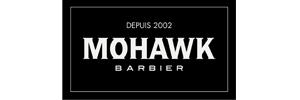
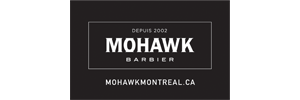
adds mohawk sponsor to footer

diff --git a/footer.php b/footer.php
@@ -73,6 +73,9 @@
 				<div class="col-xs-4">
 					<a target="_blank" href="<?php _e('[:en]http://www.montrealgayvillage.com[:][:fr]http://www.villagegaimontreal.com/[:]'); ?>"><img class="img-responsive" src="<?php bloginfo('template_url'); ?>/img/sponsor-village.png" alt=""></a>
 				</div>
+				<div class="col-xs-4">
+					<a target="_blank" href="<?php _e('[:en]http://mohawkmontreal.ca/en/[:][:fr]http://mohawkmontreal.ca/index.php[:]'); ?>"><img class="img-responsive" src="<?php bloginfo('template_url'); ?>/img/sponsor-mohawk.png" alt=""></a>
+				</div>
 			</div>
 		</div>
 	</footer>
